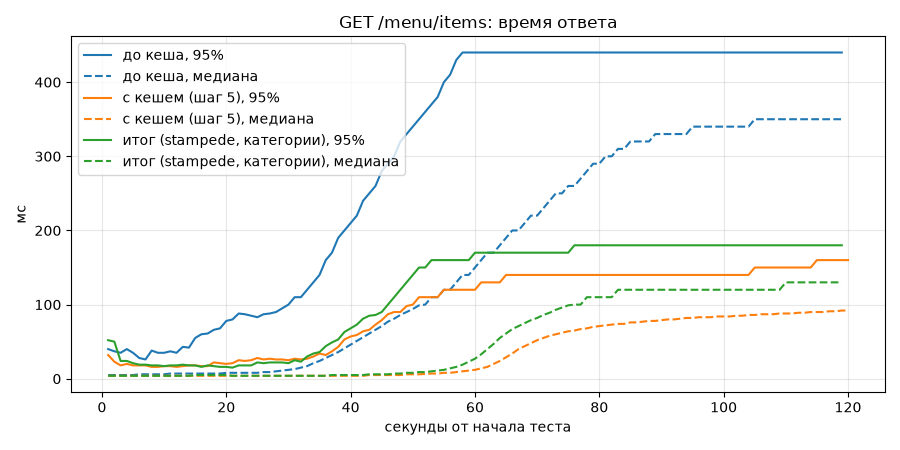
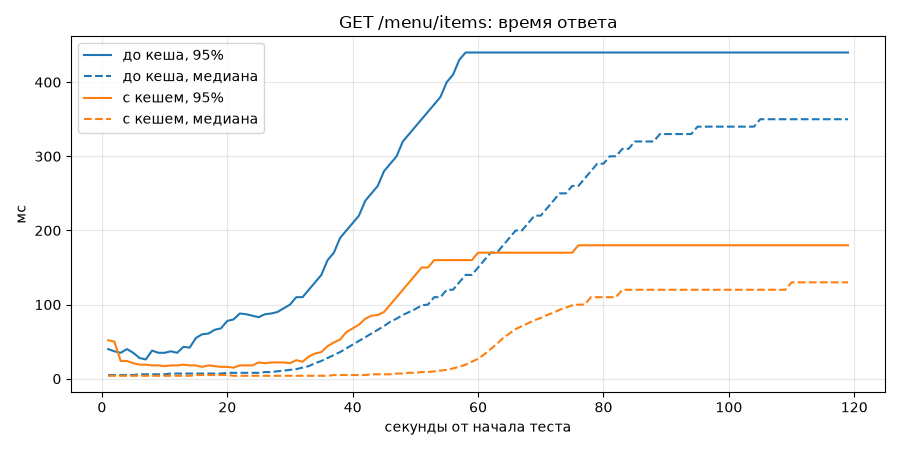
README: в таблице и на графиках только замеры до кеша и итоговый с кешем

diff --git a/loadtest/plot.py b/loadtest/plot.py
@@ -11,8 +11,7 @@ import matplotlib.pyplot as plt
 
 RUNS = {
     "до кеша": "loadtest/before",
-    "с кешем (шаг 5)": "loadtest/after",
-    "итог (stampede, категории)": "loadtest/final",
+    "с кешем": "loadtest/final",
 }
 
 
